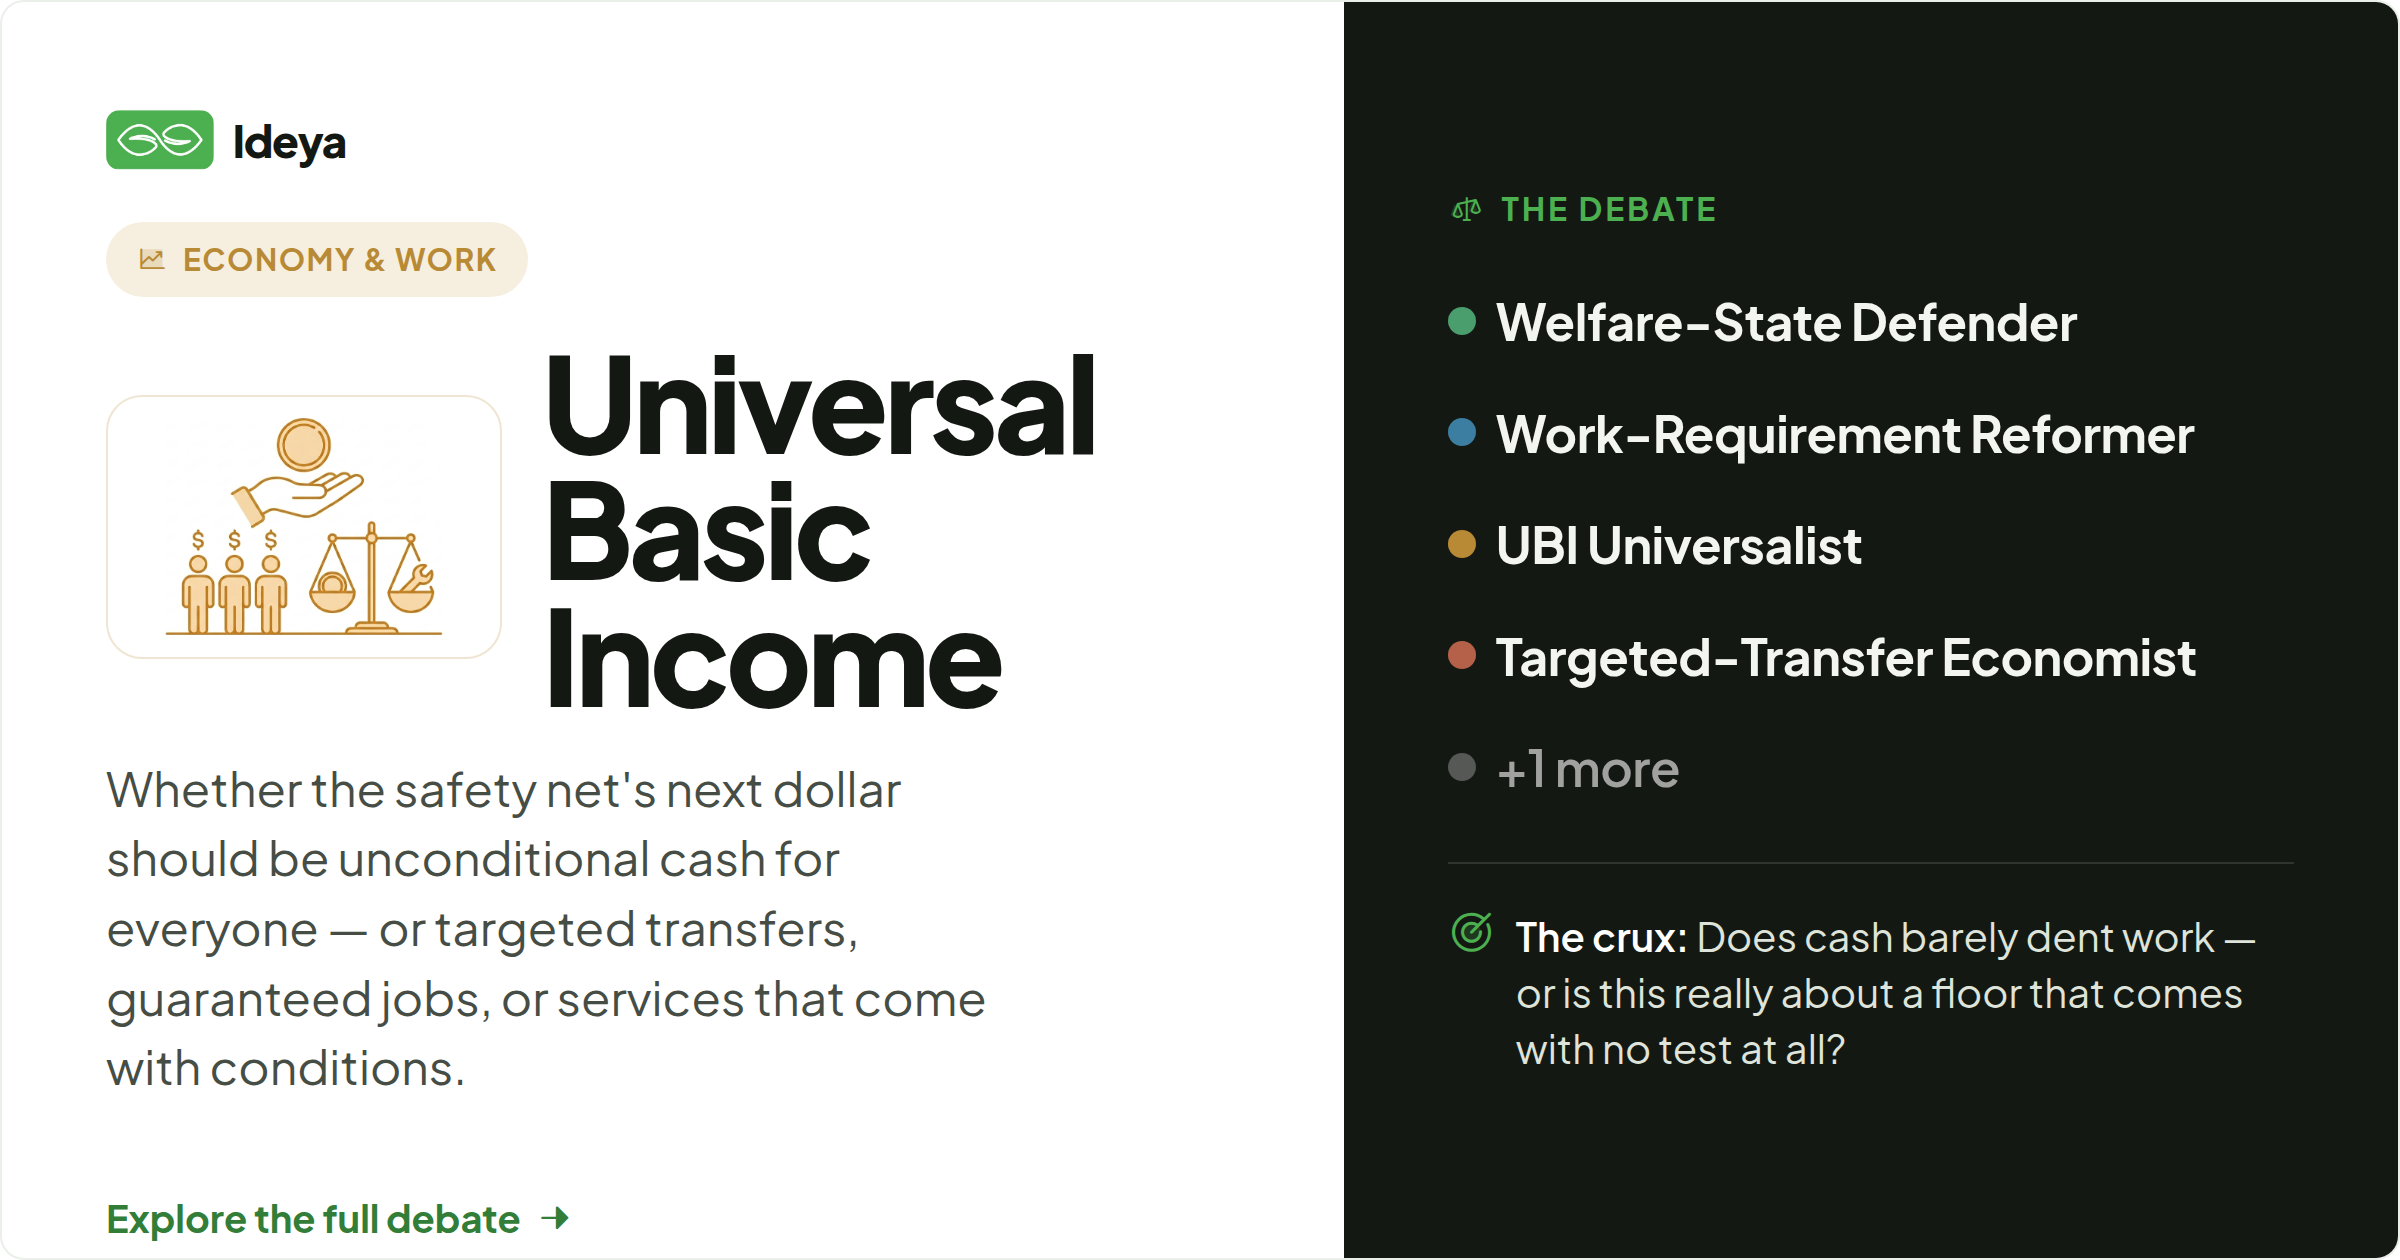
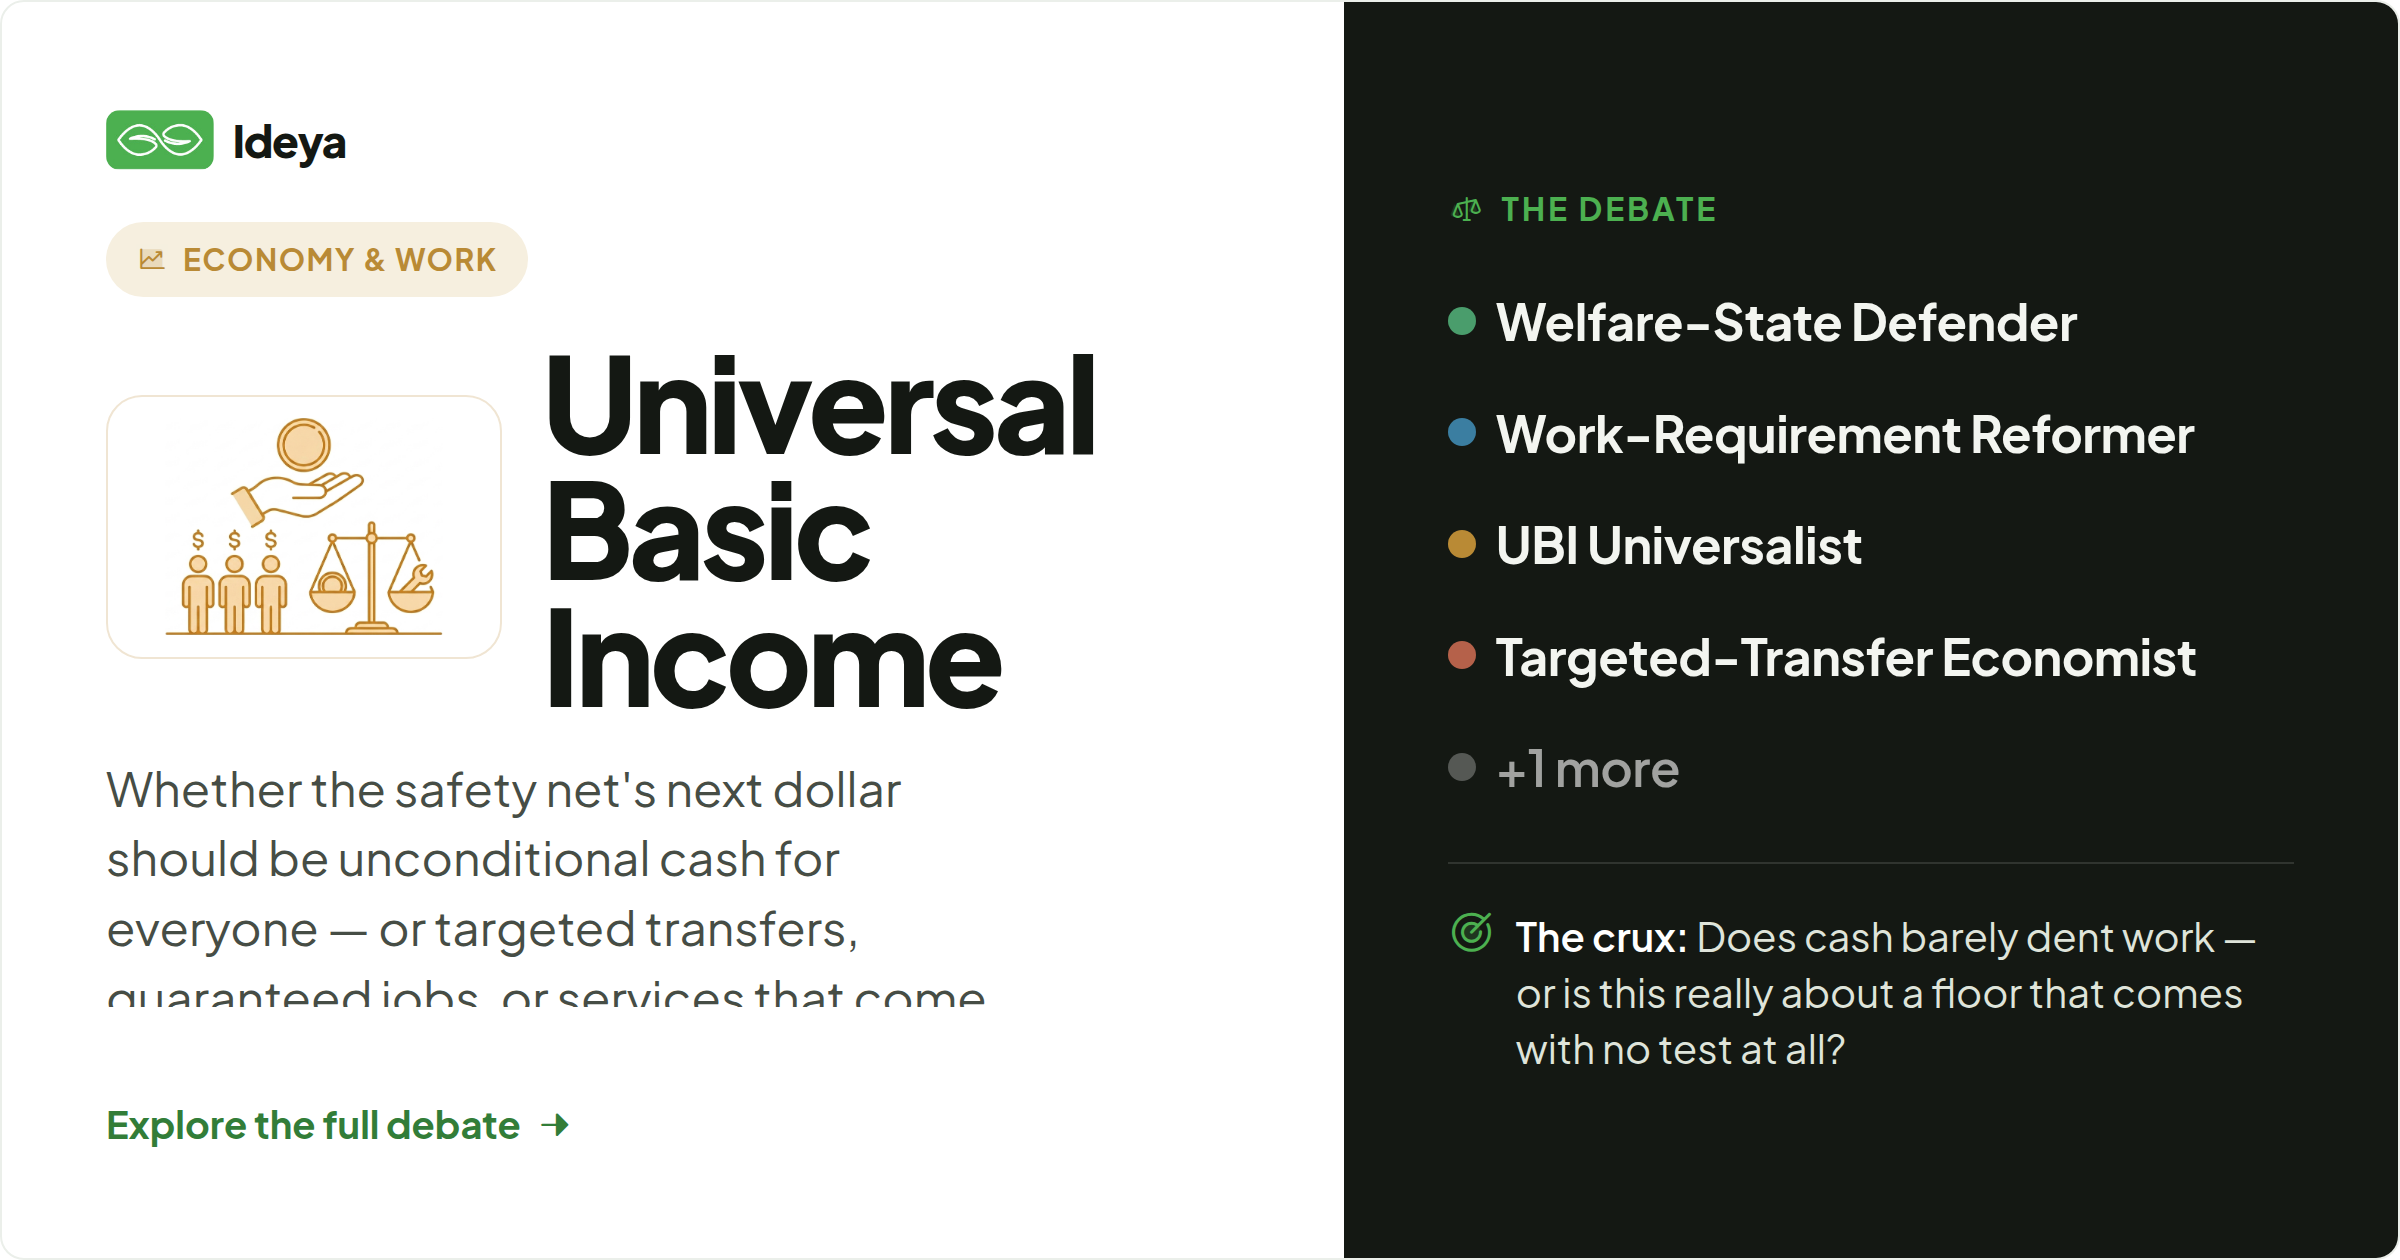
Share cards overflow-proofed; small view fixes from the DBP critique
share.html: long titles step down a size bucket (t-mid >26 / t-long >40 chars,
mirrors the poster), the summary becomes the sacrificial flex element (shrink +
clamp) so the CTA and title can never be pushed past the card edge, and the
square/portrait dark panels give back vertical padding — fixes the square card
that shipped broken on published UBI and the OG bottom-clip that would have hit
~40% of catalog titles. All three formats re-verified at three title lengths
(22/33/44 chars): light column, CTA, and dark panel all fit.

Also: lean chips wrap instead of overflowing at 320px; ranked-row labels wrap
inside their column; position dot pins to the first line of wrapped names on
mobile; scope card gains its colon; ?expanded=1 harness keeps mobile block
layout for extra questions; expanded capture window raised so mobile depth
layers are no longer truncated. Committed OG assets regenerated for the three
published topics.

Changed region(s): [[0.0312, 0.8357, 0.2188, 0.9286], [0.0312, 0.9595, 0.2188, 0.9905]]

diff --git a/templates/topics/share.html b/templates/topics/share.html
@@ -39,7 +39,10 @@
   .card .ticon.tart{width:auto;aspect-ratio:3/2;padding:0;overflow:hidden}
   .card .ticon.tart img{width:100%;height:100%;object-fit:cover;display:block}
   .ttl{font-weight:800;letter-spacing:-.035em;line-height:.96;color:var(--ink-900);margin:0}
-  .summary{color:var(--ink-600);line-height:1.45;text-wrap:pretty;display:-webkit-box;-webkit-box-orient:vertical;overflow:hidden;flex:none}
+  /* the summary is the sacrificial element: it may shrink (clamped + hidden)
+     but the CTA and title never get pushed past the card edge */
+  .summary{color:var(--ink-600);line-height:1.45;text-wrap:pretty;display:-webkit-box;-webkit-box-orient:vertical;overflow:hidden;flex:0 1 auto;min-height:0}
+  .cta{flex:none}
   .dk{background:var(--ink-900);color:#fff;display:flex;flex-direction:column;padding:var(--pad)}
   .dk .dlabel{font-weight:700;text-transform:uppercase;letter-spacing:.09em;color:var(--green-500);display:flex;align-items:center;gap:8px}
   .poss{display:flex;flex-direction:column;gap:var(--pgap);margin-top:var(--pmt)}
@@ -57,15 +60,24 @@
   .og .pos .pd{width:14px;height:14px}.og .pos .pnm{font-size:25px}
   .og .hook{margin-top:28px;padding-top:22px}.og .hook i{font-size:24px}.og .hook .ct{font-size:20px}
   /* sq/pt stack vertically: the dark panel takes its natural height, the white
-     section flexes and centers — content can never push past the card edge */
+     section flexes and centers; the summary (flex-shrinkable, clamped) absorbs
+     any excess so the title and CTA stay inside the card */
   .sq .lt,.pt .lt{flex:1 1 0;min-height:0;justify-content:safe center}
   .sq .dk,.pt .dk{flex:none}
+  /* long titles step down (mirrors the poster's length buckets) and give the
+     summary one fewer line of budget */
+  .og.t-mid .ttl{font-size:54px} .og.t-long .ttl{font-size:44px}
+  .sq.t-mid .ttl{font-size:64px} .sq.t-long .ttl{font-size:52px}
+  .pt.t-mid .ttl{font-size:76px} .pt.t-long .ttl{font-size:62px}
+  .og.t-mid .summary,.og.t-long .summary{-webkit-line-clamp:4}
+  .sq.t-mid .summary,.sq.t-long .summary{-webkit-line-clamp:4}
+  .pt.t-mid .summary,.pt.t-long .summary{-webkit-line-clamp:6}
   .sq{width:1080px;height:1080px;flex-direction:column;--pad:56px;--gap:24px;--tir:20px}
   .sq .brand{font-size:23px}.sq .brand .mark{height:32px;width:auto}.sq .brand .tag{font-size:15px}
-  .sq .cat{font-size:15px;padding:8px 17px;margin-top:26px} .sq .ttlrow{margin-top:24px}
+  .sq .cat{font-size:15px;padding:8px 17px;margin-top:20px} .sq .ttlrow{margin-top:20px}
   .sq .ticon{width:144px;height:144px}.sq .ticon i{font-size:82px} .sq .ttl{font-size:78px}
-  .sq .summary{font-size:27px;margin-top:22px;max-width:36ch;-webkit-line-clamp:5}
-  .sq .dk{--pgap:15px;--pmt:20px} .sq .dlabel{font-size:16px}
+  .sq .summary{font-size:27px;margin-top:18px;max-width:36ch;-webkit-line-clamp:5}
+  .sq .dk{--pgap:15px;--pmt:18px;padding:44px 56px} .sq .dlabel{font-size:16px}
   .sq .pos .pd{width:15px;height:15px}.sq .pos .pnm{font-size:26px}
   .sq .hook{margin-top:26px;padding-top:20px}.sq .hook i{font-size:28px}.sq .hook .ct{font-size:24px}
   .pt{width:1080px;height:1350px;flex-direction:column;--pad:60px;--gap:26px;--tir:22px}
@@ -73,13 +85,13 @@
   .pt .cat{font-size:16px;padding:9px 18px;margin-top:30px} .pt .ttlrow{margin-top:28px}
   .pt .ticon{width:160px;height:160px}.pt .ticon i{font-size:90px} .pt .ttl{font-size:92px}
   .pt .summary{font-size:30px;margin-top:24px;max-width:34ch;-webkit-line-clamp:7}
-  .pt .dk{--pgap:17px;--pmt:24px} .pt .dlabel{font-size:17px}
+  .pt .dk{--pgap:17px;--pmt:22px;padding:48px 60px} .pt .dlabel{font-size:17px}
   .pt .pos .pd{width:16px;height:16px}.pt .pos .pnm{font-size:30px}
   .pt .hook{margin-top:30px;padding-top:24px}.pt .hook i{font-size:32px}.pt .hook .ct{font-size:28px}
   /* call-to-action */
   .cta{display:inline-flex;align-items:center;gap:8px;font-weight:700;color:var(--green-700)}
   .og .cta{font-size:19px;margin-top:20px}.og .cta i{font-size:18px}
-  .sq .cta{font-size:23px;margin-top:28px}.sq .cta i{font-size:22px}
+  .sq .cta{font-size:23px;margin-top:22px}.sq .cta i{font-size:22px}
   .pt .cta{font-size:25px;margin-top:32px}.pt .cta i{font-size:24px}
 </style>
 </head>
@@ -87,7 +99,7 @@
 {% with cc=topic.color_category %}
 {% spaceless %}
 {% if render_card %}
-<div class="card {{ render_card }}">{% include "topics/components/_share_card.html" %}</div>
+<div class="card {{ render_card }} {{ title_class }}">{% include "topics/components/_share_card.html" %}</div>
 {% elif render_unfurl %}
 <div class="unfurl">
   <p class="lead">How this link unfurls when shared (X / LinkedIn / Slack)</p>
@@ -105,7 +117,7 @@
   <div class="frame">
     <div class="flabel"><i class="ph-duotone ph-link"></i>OG / Link preview <span class="dim">· 1200 × 630</span></div>
     <div class="scaler" style="width:600px;height:315px">
-      <div class="card og" style="transform:scale(0.5);transform-origin:top left">
+      <div class="card og {{ title_class }}" style="transform:scale(0.5);transform-origin:top left">
         {% include "topics/components/_share_card.html" %}
       </div>
     </div>
@@ -115,7 +127,7 @@
   <div class="frame">
     <div class="flabel"><i class="ph-duotone ph-square"></i>Square / Feed <span class="dim">· 1080 × 1080</span></div>
     <div class="scaler" style="width:454px;height:454px">
-      <div class="card sq" style="transform:scale(0.42037);transform-origin:top left">
+      <div class="card sq {{ title_class }}" style="transform:scale(0.42037);transform-origin:top left">
         {% include "topics/components/_share_card.html" %}
       </div>
     </div>
@@ -123,7 +135,7 @@
   <div class="frame">
     <div class="flabel"><i class="ph-duotone ph-rectangle"></i>Portrait / Story <span class="dim">· 1080 × 1350</span></div>
     <div class="scaler" style="width:454px;height:567px">
-      <div class="card pt" style="transform:scale(0.42037);transform-origin:top left">
+      <div class="card pt {{ title_class }}" style="transform:scale(0.42037);transform-origin:top left">
         {% include "topics/components/_share_card.html" %}
       </div>
     </div>

diff --git a/static/css/ideya.css b/static/css/ideya.css
@@ -282,7 +282,7 @@ body .sec.is-open .when-normal.is-inline, body .sec.is-open .when-deep.is-inline
 .rank { display: flex; flex-direction: column; gap: 9px; }
 /* label column: fixed share of the tile (same for every row, so bars stay aligned) — a hard 64px wrapped long labels into slivers on wide tiles and narrow viewports */
 .rrow { display: grid; grid-template-columns: minmax(64px, 28%) 1fr 52px; align-items: center; gap: 12px; font-size: var(--text-sm); }
-.rrow .rk2 { color: var(--fg2); }
+.rrow .rk2 { color: var(--fg2); min-width: 0; overflow-wrap: anywhere; }
 .rrow .rbar { height: 9px; background: var(--ink-100); border-radius: var(--radius-pill); overflow: hidden; }
 .rrow .rbar i { display: block; height: 100%; background: var(--ink-300); border-radius: var(--radius-pill); }
 .rrow .rv { text-align: right; font-family: var(--font-tabular); font-variant-numeric: tabular-nums; color: var(--fg2); }
@@ -323,7 +323,7 @@ body .sec.is-open .when-normal.is-inline, body .sec.is-open .when-deep.is-inline
    split bar they drive (.a = left pole, blue; .b = right pole, slate). Equal-width
    chips keep the pair symmetric; the % on each flanks the centre, label to the edge. */
 .lean .lt { display: flex; align-items: stretch; gap: 8px; margin-bottom: 8px; }
-.lean .lt .lp { flex: 1 1 0; display: inline-flex; align-items: baseline; justify-content: space-between; gap: 8px; background: var(--surface); border: 1px solid var(--border); padding: 6px 12px; border-radius: var(--radius-pill); font: inherit; font-size: var(--text-xs); font-weight: var(--weight-semibold); color: var(--fg2); cursor: pointer; white-space: nowrap; transition: border-color var(--dur) var(--ease), background var(--dur) var(--ease), color var(--dur) var(--ease); }
+.lean .lt .lp { flex: 1 1 0; min-width: 0; display: inline-flex; align-items: baseline; justify-content: space-between; gap: 8px; background: var(--surface); border: 1px solid var(--border); padding: 6px 12px; border-radius: var(--radius-pill); font: inherit; font-size: var(--text-xs); font-weight: var(--weight-semibold); color: var(--fg2); cursor: pointer; white-space: normal; overflow-wrap: anywhere; transition: border-color var(--dur) var(--ease), background var(--dur) var(--ease), color var(--dur) var(--ease); }
 .lean .lt .lp b { font-family: var(--font-tabular); }
 .lean .lt .lp.a, .lean .lt .lp.a b { color: var(--pole-a); }
 .lean .lt .lp.b, .lean .lt .lp.b b { color: var(--pole-b); }
@@ -829,6 +829,9 @@ a.sp-cat:hover { text-decoration: none; box-shadow: inset 0 0 0 1px color-mix(in
      so the caret toggle is hidden — it would otherwise collide with the pill. */
   .q { display: block; position: relative; }
   .q .xtoggle { display: none; }
+  /* wrapped position names: pin the dot to the first line, not the block center */
+  .phead { align-items: flex-start; }
+  .phead .pdot { margin-top: 8px; }
   .qvote { position: absolute; top: 13px; right: 13px; flex-direction: row; align-items: center; gap: 6px; border: 1px solid var(--border); border-radius: var(--radius-pill); padding: 3px 9px; background: var(--surface); }
   .qvote i { font-size: 13px; padding: 0; }
   .qvote .qc { font-size: var(--text-xs); }

diff --git a/templates/topics/detail.html b/templates/topics/detail.html
@@ -24,6 +24,9 @@
      [x-cloak] !important rule. */
   #main .tile-xtra { display: flex !important; }
   #main .q-xtra { display: grid !important; }
+  /* mobile renders .q as block (ideya.css) — keep the harness override in step
+     or the extra questions collapse to a sliver column in mobile captures */
+  @media (max-width: 640px) { #main .q-xtra { display: block !important; } }
   #main .pos-xtra { display: flex !important; }
   #main .tmore, #main .qmore, #main .pmore { display: block !important; }
   #main .csplit { display: grid !important; }
@@ -134,7 +137,7 @@
         <div class="ov-meta">
           {% if topic.scope_covered %}
           <div class="mc"><div class="mk"><i class="ph-duotone ph-crop"></i>Scope</div>
-            <div class="mv">{{ topic.scope_covered }}{% if topic.scope_excluded %} <b>Not</b> {{ topic.scope_excluded }}{% endif %}</div></div>
+            <div class="mv">{{ topic.scope_covered }}{% if topic.scope_excluded %} <b>Not:</b> {{ topic.scope_excluded }}{% endif %}</div></div>
           {% endif %}
           {% if topic.why_now %}
           <div class="mc"><div class="mk"><i class="ph-duotone ph-clock-countdown"></i>Why it matters now</div>

diff --git a/topics/views.py b/topics/views.py
@@ -507,6 +507,13 @@ def share_cards(request, slug):
                 0, len(all_positions) - Section.POSITIONS_DEFAULT_SHOWN
             ),
             "crux": getattr(crux_section, "crux", None) if crux_section else None,
+            # Long titles step the card headline down a size bucket (mirrors
+            # the poster's length buckets) so they never clip the layout.
+            "title_class": (
+                "t-long"
+                if len(topic.title) > 40
+                else "t-mid" if len(topic.title) > 26 else ""
+            ),
             "render_card": (
                 request.GET.get("render")
                 if request.GET.get("render") in ("og", "sq", "pt")

diff --git a/topics/management/commands/render_screens.py b/topics/management/commands/render_screens.py
@@ -29,7 +29,7 @@ CHROME_CANDIDATES = [
 # a fixed cap silently clipped the Crux/Actions sections). Expanded captures
 # force every detail layer visible and run far taller still.
 CAPTURE_HEIGHT = 12000
-CAPTURE_HEIGHT_EXPANDED = 22000
+CAPTURE_HEIGHT_EXPANDED = 45000
 
 
 def _pretty(path):
